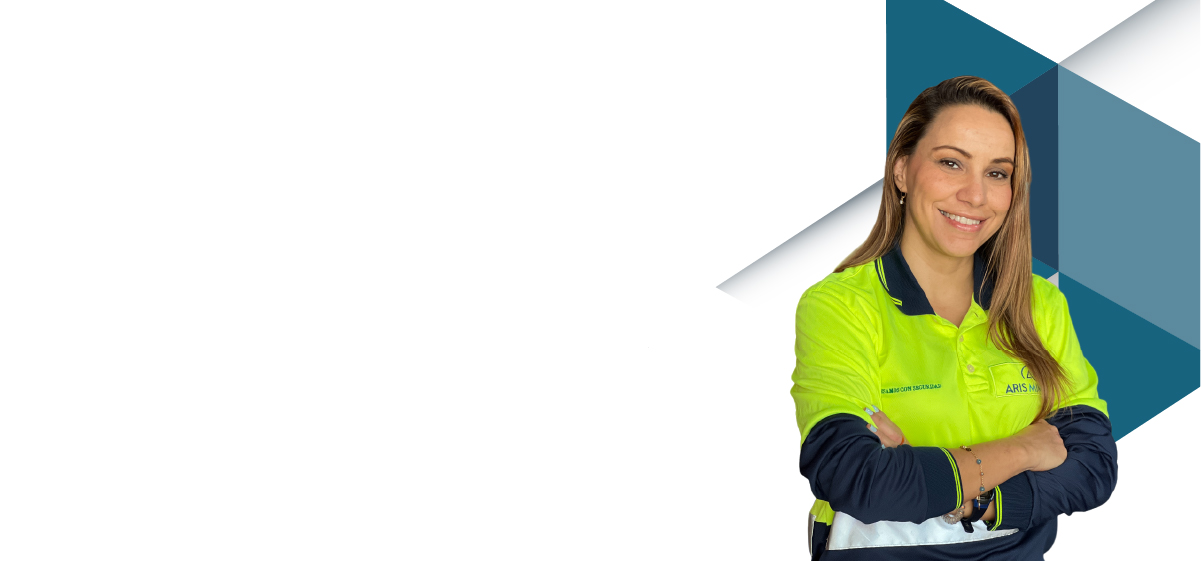
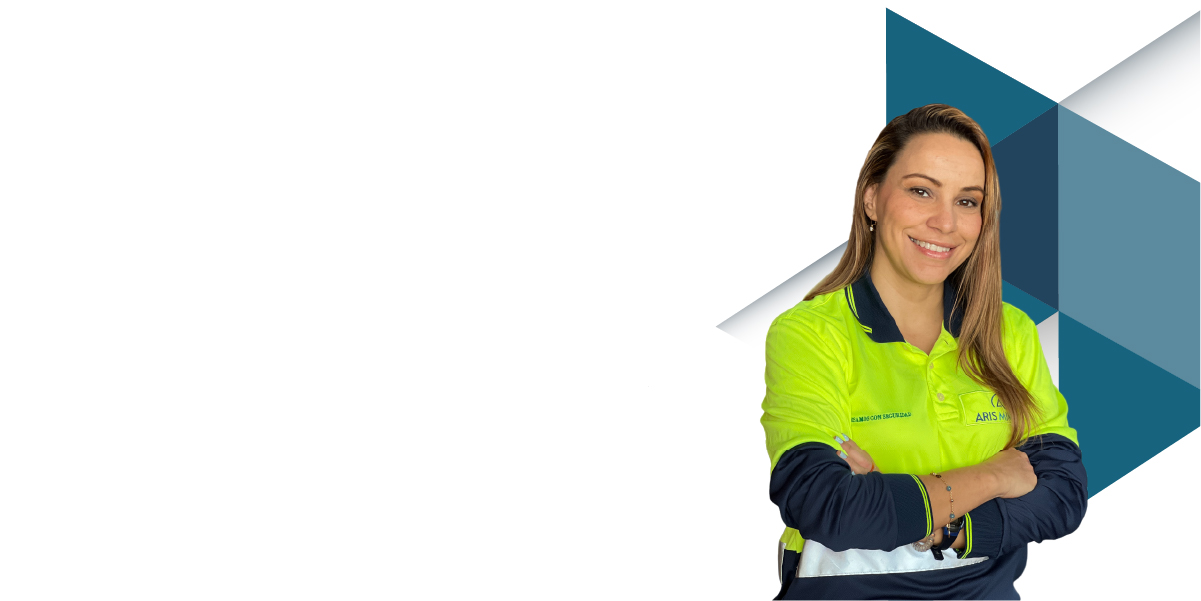
ajuste span, y flechas

Changed region(s): [[0.5853, 0.0, 1.0, 1.0], [0.955, 0.697, 1.0, 0.7576]]

diff --git a/modulo.html b/modulo.html
@@ -351,7 +351,7 @@
                         <audio controls id="actividad_3" class="track-element mt-4  mx-auto d-block size-audio">
                             <source src="assets/audio/Mision-Audio.mp3" type="audio/mp3">
                         </audio>
-                        <div class="icoflecha instruccionflecha content-flecha-v2 ">
+                        <div class="icoflechavision instruccionflecha content-flecha-v2 ">
                             <img src="assets/img/flecha-instru.png" alt="flecha"> 
                             <i>Haz clic para escuchar el audio</i>
                         </div>
@@ -374,7 +374,7 @@
                     <audio controls id='actividad_3' class="track-element  mt-4  mx-auto d-block size-audio">
                         <source src="assets/audio/Vision-f.mp3" type="audio/mp3">
                     </audio>
-                    <div class="icoflecha instruccionflecha content-flecha-v2">
+                    <div class="icoflechavision instruccionflecha content-flecha-v2">
                         <img src="assets/img/flecha-instru.png" alt="flecha"> 
                         <i>Haz clic para escuchar el audio</i>
                     </div>
@@ -1221,7 +1221,7 @@
                 <audio controls class="audio-bienvenida" style="max-width: 93% !important;">
                     <source src="assets/audio/SLIP-19-Que-gestiones-turno-de-trabajo.mp3" type="audio/mp3" style="max-width: 90% !important;">
                 </audio>
-                <div class="icoflecha instruccionflecha">
+                <div class="icoflecha instruccionflecha content-flecha-v2">
                     <img src="assets/img/flecha-instru.png" alt="flecha"> <i>Haz clic para escuchar el audio</i>
                 </div>
             </div>
@@ -1232,7 +1232,7 @@
                 <button id='actividad_1' class="btn btn-warning track-element" data-bs-toggle="modal" data-bs-target="#slide_turnos_12"
                     style="background-color: #BFEE30 !important; color: #0B3D5C !important; margin-left: 5%; margin-top: 3%; padding: 10px 100px !important" > 
                     Ver video</button>
-                    <div class="icoflecha instruccionflecha">
+                    <div class="icoflecha instruccionflecha content-flecha-v2">
                         <img src="assets/img/flecha-instru.png" alt="flecha"> <i>Haz clic para ver el video</i>
                     </div>
             </div>

diff --git a/assets/css/style.css b/assets/css/style.css
@@ -1430,7 +1430,7 @@
         }
         .img-mision-vision{
             margin:0 auto; 
-            width:28%;
+            width:23%;
         }
 
         .diversidad img{
@@ -3161,9 +3161,15 @@ p, a, ul, li, label {
 a {
     text-decoration: none;
 }
-h1, h2, h3, b, button, span {
+h1, h2, h3, b, button{
 	font-family: 'Alata', sans-serif;
     white-space: nowrap;
+}
+
+span{
+    font-family: 'Futura Bk BT', sans-serif;
+    white-space: nowrap;
+
 }
 
 i{
